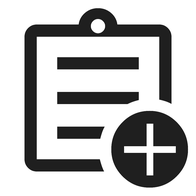
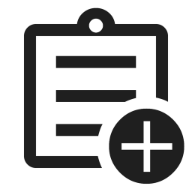
deploy: 1fbaf159f82b56f66949d03ead2be95025ae58e2

diff --git a/flutter_service_worker.js b/flutter_service_worker.js
@@ -3,10 +3,13 @@ const MANIFEST = 'flutter-app-manifest';
 const TEMP = 'flutter-temp-cache';
 const CACHE_NAME = 'flutter-app-cache';
 
-const RESOURCES = {"icons/Icon-maskable-192.png": "6c033c3f2c8091220bcba311cc849539",
-"icons/Icon-192.png": "6c033c3f2c8091220bcba311cc849539",
+const RESOURCES = {"icons/favicon.ico": "e2c21e99466ac2464ae1508e8f6aa396",
+"icons/Icon-maskable-192.png": "5f36f08de137b2e2b960b3436696805f",
+"icons/favicon-32x32.png": "ae739a20784b2ffb49dc26e366e9a446",
+"icons/Icon-192.png": "5f36f08de137b2e2b960b3436696805f",
 "icons/Icon-maskable-512.png": "f7dc4c7b5bec5c8739446bcf46d3cae0",
 "icons/Icon-512.png": "f7dc4c7b5bec5c8739446bcf46d3cae0",
+"icons/favicon-16x16.png": "4e12c8fa358f6277bdd45216c4dbb117",
 "assets/fonts/MaterialIcons-Regular.otf": "5fe2348d1f519369c472c20f3ae0663f",
 "assets/AssetManifest.bin.json": "99a97df8255cc1642883bc1b4df3e618",
 "assets/AssetManifest.bin": "e22653ede92eaa0b547b48b0c8b2bc0c",
@@ -30,10 +33,9 @@ const RESOURCES = {"icons/Icon-maskable-192.png": "6c033c3f2c8091220bcba311cc849
 "canvaskit/chromium/canvaskit.js": "34beda9f39eb7d992d46125ca868dc61",
 "canvaskit/chromium/canvaskit.wasm": "64a386c87532ae52ae041d18a32a3635",
 "canvaskit/chromium/canvaskit.js.symbols": "5a23598a2a8efd18ec3b60de5d28af8f",
-"flutter_bootstrap.js": "db7de073da3707fb35aca51032e09520",
-"favicon.png": "5dcef449791fa27946b3d35ad8803796",
-"index.html": "222fe90efceb30751644a7d2147a1ab2",
-"/": "222fe90efceb30751644a7d2147a1ab2",
+"flutter_bootstrap.js": "34ab263de5fbf6ebec9c97be4879935c",
+"index.html": "eba5509092047314aec737c92eeb196d",
+"/": "eba5509092047314aec737c92eeb196d",
 "flutter.js": "76f08d47ff9f5715220992f993002504"};
 // The application shell files that are downloaded before a service worker can
 // start.

diff --git a/index.html b/index.html
@@ -27,7 +27,7 @@
   <link rel="apple-touch-icon" href="icons/Icon-192.png">
 
   <!-- Favicon -->
-  <link rel="icon" type="image/png" href="favicon.png"/>
+  <link rel="icon" type="image/png" href="icons/favicon-32x32.png"/>
 
   <title>new_words</title>
   <link rel="manifest" href="manifest.json">

diff --git a/flutter_bootstrap.js b/flutter_bootstrap.js
@@ -11,6 +11,6 @@ _flutter.buildConfig = {"engineRevision":"cf56914b326edb0ccb123ffdc60f00060bd513
 
 _flutter.loader.load({
   serviceWorkerSettings: {
-    serviceWorkerVersion: "74241313"
+    serviceWorkerVersion: "30462711"
   }
 });
